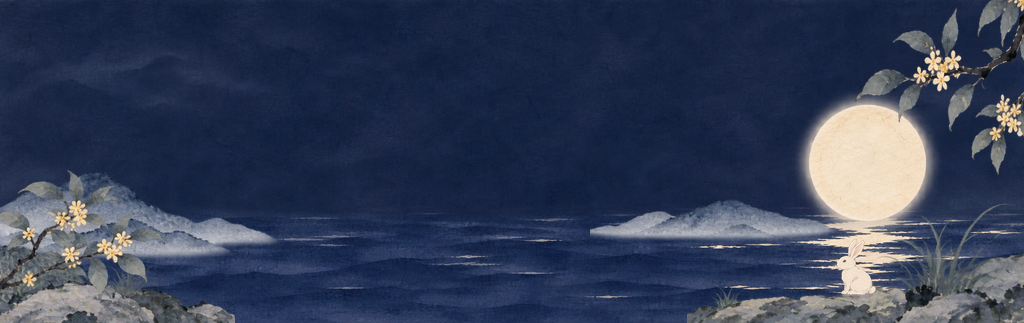
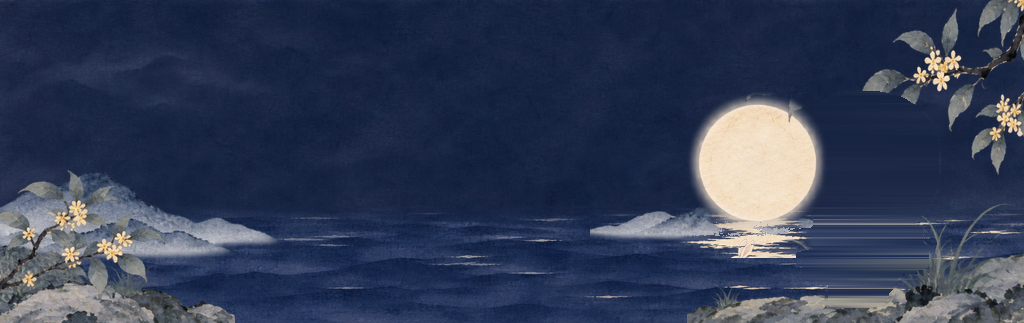
fix(covers): 动态封面主体收进窗（A 批 D-1～D-12）
iPhone 个人页 390x180 下可见帧窗 x[193.8,830.4]，审计 22 项里的主体裁切 12 项：

- D-1 七夕：双鹊整体左移 155 帧 px（小喜鹊 [658,798]，满幅右倾到 822）
- D-2 元旦：newyear-egg-burst.png 里两颗出屏星移进窗（150→230、950→790）
- D-3 复活节金蛋：整层左移 60 帧 px（→ [741,791]）
- D-4 复活节彩蛋：中心 380→412，满幅左倾左缘 365，出头像遮挡区
- D-5 元宵莲花灯：中心 y 288→279，底边 305 不再出窗底
- D-6 元宵近景光效：整层左收 100 帧 px（亮核 → [639,803]）
- D-7 中秋：月盘在图集 13 帧＋海报里左移 110 帧 px（图集手术：月盘＋
  倒影平移、空位横向插值填补、玉兔与桂花枝原样保留），玉兔图层代码里
  同移 110（相对位置不变）；满幅右倾月盘到 827、玉兔到 818
- D-8 中秋孔明灯：左灯 baseX 180→280
- D-9 亡灵节花瓣：落点重排（1 号 150→260、4 号 900→770）
- D-10 旧系统：BearyFestivalWallpaperView 加 isCoverMode（max 缩放居中
  裁切、去阅读遮罩，纵向锚点 0.578），个人页调用点开启，选择页预览不动
- D-11 韩国地面光晕：中心 1090→970
- D-12 韩国风筝挂钩：x 1002→980

每项均按审计同款方法复算（可见窗换算、alpha 框／连通域），见 NOTES。
已知残留：七夕双鹊翼尖／尾尖约 5–10 帧 px 纵向微裁（平移修不了）；
元宵近景光效极淡尾部少量残留；中秋旧月位有极淡填补痕（手机尺寸不可见）。

Changed region(s): [[0.6562, 0.2786, 0.9375, 0.9598]]

diff --git a/ios/App/App/BearyProfileCoverView.swift b/ios/App/App/BearyProfileCoverView.swift
@@ -517,12 +517,18 @@ public final class ProfileCoverView: UIView {
                    center: CGPoint(x: padded.midX + structureX, y: padded.midY),
                    width: padded.width, height: padded.height, angle: 0, alpha: egg * (0.35 + 0.45 * motion), layered: true)
         }
-        // 两只喜鹊中心（帧坐标）：大喜鹊 (545.5, 263)，小喜鹊 (883, 57.5)；
-        // 桥心取两者中点 (714.25, 160.25)；靠拢走 55% 的路、留翼尖相触的距离，
+        // 两只喜鹊中心（帧坐标）：大喜鹊 (390.5, 263)，小喜鹊 (728, 57.5)；
+        // 桥心取两者中点 (559.25, 160.25)；靠拢走 55% 的路、留翼尖相触的距离，
         // 不叠在一起；再各加一条 sin 弧线（约 10px），轨迹是短弧线、像滑翔。
-        let meet = CGPoint(x: 714.25, y: 160.25)
-        let bigCenter = CGPoint(x: 545.5, y: 263)
-        let smallCenter = CGPoint(x: 883, y: 57.5)
+        // D-1：iPhone 个人页可见帧窗右缘 830，小喜鹊身体层帧 x[813,953] 静止
+        // 仅 12% 可见——双鹊整体左移 155 帧 px（身体层 → [658,798]，满幅右倾
+        // 到 822，仍在窗内；大喜鹊 → [331,457]；相会点跟着走，仍在金带上）。
+        // 纵向不移：双鹊纵跨 y[10,318] 比窗高 293 只多约 15，仅翼尖／尾尖
+        // 约 5–10 帧 px 微裁，平移修不了，留作已知残留。
+        let magpieShiftX: CGFloat = -155
+        let meet = CGPoint(x: 714.25 + magpieShiftX, y: 160.25)
+        let bigCenter = CGPoint(x: 545.5 + magpieShiftX, y: 263)
+        let smallCenter = CGPoint(x: 883 + magpieShiftX, y: 57.5)
         let arc = sin(.pi * converge) * 10
         let bigFrame = CGPoint(
             x: converge * 0.55 * (meet.x - bigCenter.x) + arc * 0.520,
@@ -553,7 +559,7 @@ public final class ProfileCoverView: UIView {
         }
         // 未触发时整张喜鹊：PNG 左上角对帧坐标 (483, 7)、473×313。
         bitmap("qixi-magpie", in: ctx,
-               center: CGPoint(x: -32 + (483 + 473 / 2) * scaleX + subjectX,
+               center: CGPoint(x: -32 + (483 + 473 / 2) * scaleX + subjectX + magpieShiftX * scaleX,
                                y: -12 + (7 + 313 / 2) * scaleY + vertical),
                width: 473 * scaleX, height: 313 * scaleY, angle: 0, alpha: 1 - split, layered: true)
     }
@@ -587,8 +593,9 @@ public final class ProfileCoverView: UIView {
     /// 三层视差已 baked 进帧——远层帧移 1(f−6) px（±6）、中层 2(f−6) px
     /// （±12）、近层 3(f−6) px（±18），窗框在底图里全程静止。
     /// 彩蛋一张是与第 7 帧对齐的整帧透明层：7 颗金色四角星（(843,49) 在右上
-    /// 大金烟花里，另 6 颗 (150,62)、(320,108)、(430,48)、(600,38)、
-    /// (250,212)、(950,192) 布满天空），跟远层走。
+    /// 大金烟花里，另 6 颗 (230,62)、(320,108)、(430,48)、(600,38)、
+    /// (250,212)、(790,192) 布满天空），跟远层走。D-2：(150,62) 与 (950,192)
+    /// 两颗出屏，已在 newyear-egg-burst.png 里分别移到 (230,62) 与 (790,192)。
     /// 坐标全按帧坐标（1024×323）算、再乘 padded 的拉伸比换到画布坐标，与 canvasRectToView 同一套映射。
     /// App 侧动态层跟图集同速：彩蛋跟远层，帧移 1(f−6) px 即 6*depth
     /// （depth ∈ [−1, 1]，f = (depth+1)*6）。
@@ -611,8 +618,9 @@ public final class ProfileCoverView: UIView {
     /// 三层位移（第 1→13 帧全程）：远 24／中 36／前景 60；帧 f=(depth+1)*6，
     /// 中层帧内位移 3(f−6) px 即 18*depth——彩蛋与金蛋都跟中层走（±18px）。
     /// 动态彩蛋（easter-painted-egg.png，512×560）：画在开阔草地上、兔子左侧，
-    /// 中心帧坐标 (380, 269)、宽 90，底边贴草地（y≈318）；交付里只说“落在草地上”、
-    /// 没给位置，这个点是我定的，想挪直接改这两个数。金蛋：倾斜保持 0.45 秒后
+    /// 中心帧坐标 (412, 269)、宽 90，底边贴草地（y≈318）；交付里只说“落在草地上”、
+    /// 没给位置，这个点是我定的，想挪直接改这两个数。D-4：原中心 (380, 269) 左下角
+    /// 碰头像遮挡区，右移 32 帧 px。金蛋：倾斜保持 0.45 秒后
     /// 随 egg 淡入（触发走共享 step 逻辑，与圣诞同款；每次进页 restartVisit 可再触发）。
     private func drawEaster(_ ctx: CGContext, depth: CGFloat, vertical: CGFloat, padded: CGRect) {
         let scaleX = padded.width / 1024
@@ -621,16 +629,21 @@ public final class ProfileCoverView: UIView {
         // 即 18*depth）；彩蛋与金蛋都按它平移才贴得住草地。
         let middleX = 18 * depth * scaleX
         // 金蛋：兔子右侧草丛，整帧透明层与第 7 帧对齐（金蛋 bbox x801–851、y240–281）。
+        // D-3：iPhone 可见帧窗右缘 830，金蛋静止仅 58% 可见——整层左移 60 帧 px
+        // （→ [741,791]，满幅倾斜也在窗内；图层除金蛋外全透明，整层平移无影响）。
         if egg > 0.001 {
             bitmap("easter-golden-egg", in: ctx,
-                   center: CGPoint(x: padded.midX + middleX, y: padded.midY),
+                   center: CGPoint(x: padded.midX + middleX - 60 * scaleX, y: padded.midY),
                    width: padded.width, height: padded.height, angle: 0, alpha: egg, layered: true)
         }
-        // 动态彩蛋：PNG 512×560，宽 90、高 90*560/512；中心帧坐标 (380, 269)。
+        // 动态彩蛋：PNG 512×560，宽 90、高 90*560/512；中心帧坐标 (412, 269)。
+        // D-4：原中心 (380, 269) 左下角碰头像遮挡区（满幅左倾时左缘到帧 344，
+        // 头像右缘 357）——中心右移 32 帧 px，满幅左倾左缘到约 365，刚出头像区；
+        // 右缘仍远离兔子（兔子左缘约 600）。
         let eggWidth: CGFloat = 90
         let eggHeight = eggWidth * 560 / 512
         bitmap("easter-painted-egg", in: ctx,
-               center: CGPoint(x: -32 + 380 * scaleX + middleX,
+               center: CGPoint(x: -32 + 412 * scaleX + middleX,
                                y: -12 + 269 * scaleY + vertical),
                width: eggWidth, height: eggHeight, angle: 0, alpha: 1, layered: true)
     }
@@ -642,8 +655,9 @@ public final class ProfileCoverView: UIView {
     /// (T/2)*depth——花灯浮在水面跟中层走（±18px），光效近景片跟近景（±24px）、
     /// 远景片跟远景（±12px）。中景片与前景片为空：光晕够不着桥面水纹与梅花枝，
     /// 拆分见 festival-depth-covers/chatgpt-step2/split-lights.py，两片重组与原图逐像素一致。
-    /// 莲花灯（flower-lantern.png，520×484）：画在桥右水面开阔处，中心帧坐标 (430, 288)、
+    /// 莲花灯（flower-lantern.png，520×484）：画在桥右水面开阔处，中心帧坐标 (430, 279)、
     /// 宽 70，底边贴水面（y≈320）；交付里没给位置，这个点是我定的，想挪直接改这两个数。
+    /// D-5：原中心 y 288 时底边超出可见窗底，上提 9 帧 px。
     /// 预览 v2 里花灯会持续漂移＋浮沉＋倾斜＋光晕脉动，本接线没做：灯锚在水面，
     /// 只跟倾斜轻摆（角度 0.03*travel）＋水面一圈暖光晕；持续漂移要时间驱动，
     /// 现在的 ProfileCoverView 没有时间相位，先不做。远景虚化＋梅花清晰豁免也是
@@ -662,15 +676,20 @@ public final class ProfileCoverView: UIView {
             bitmap("lantern-lights-far", in: ctx,
                    center: CGPoint(x: padded.midX + farX, y: padded.midY),
                    width: padded.width, height: padded.height, angle: 0, alpha: egg, layered: true)
+            // D-6：近景光效层亮核帧 x[739,903]，可见窗右缘 830——整层左收 100 帧 px
+            // （亮核 → [639,803]，满幅右倾到 827，仍在窗内；光晕是柔和 wash，
+            // 相对右楼位置略移，亮核仍落在楼体上；极淡尾部少量残留，见 NOTES）。
             bitmap("lantern-lights-near", in: ctx,
-                   center: CGPoint(x: padded.midX + nearX, y: padded.midY),
+                   center: CGPoint(x: padded.midX + nearX - 100 * scaleX, y: padded.midY),
                    width: padded.width, height: padded.height, angle: 0, alpha: egg, layered: true)
         }
-        // 莲花灯：PNG 520×484，宽 70、高 70*484/520；中心帧坐标 (430, 288)。
+        // 莲花灯：PNG 520×484，宽 70、高 70*484/520；中心帧坐标 (430, 279)。
+        // D-5：原中心 y 288 时底边帧 y≈314，超出可见窗底 308——上提 9 帧 px，
+        // 底边到约 305，满幅竖直倾斜也在窗内。
         let lanternWidth: CGFloat = 70
         let lanternHeight = lanternWidth * 484 / 520
         let lanternCenter = CGPoint(x: -32 + 430 * scaleX + middleX,
-                                    y: -12 + 288 * scaleY + vertical)
+                                    y: -12 + 279 * scaleY + vertical)
         // 水面暖光晕（灯下倒影一圈暖色，随灯走）。
         glow(ctx, center: CGPoint(x: lanternCenter.x, y: lanternCenter.y + lanternHeight * 0.42),
              rx: 52, ry: 8, color: UIColor(red: 1, green: 0.69, blue: 0.34, alpha: 1), alpha: 0.30)
@@ -686,10 +705,13 @@ public final class ProfileCoverView: UIView {
     /// 彩蛋（jade-rabbit-egg.png，1024×323）：月亮里玉兔捣药金色剪影
     /// （alpha 框 x888–916、y138–170，正落在月盘里），倾斜保持 0.45 秒后
     /// 随 egg 淡入（触发走共享 step 逻辑，与圣诞同款；每次进页 restartVisit 可再触发）。
+    /// D-7：月盘（图集第 7 帧 x801–925）与玉兔静止只剩约 18%／完全出屏——
+    /// 月盘在图集与海报里左移 110 帧 px，玉兔代码里同移 110，相对位置不变。
     /// 孔明灯（sky-lantern.png，120×110）：三盏错开相位循环上飘（周期约
     /// 14 秒，底部淡入、顶部淡出）；上飘由 App 实现——ProfileCoverView
     /// 用 step() 的 dt 累一个 lanternPhase（进页／停播时复位），灯的位置
-    /// （x 180／480／760）与大小（宽 56）是我定的，想挪直接改这两个数。
+    /// （x 280／480／760）与大小（宽 56）是我定的，想挪直接改这两个数。
+    /// D-8：原左灯 x 180 静止基本全在屏外，左移到 280。
     private func drawMidautumn(_ ctx: CGContext, depth: CGFloat, travel: CGFloat, vertical: CGFloat, padded: CGRect) {
         let scaleX = padded.width / 1024
         let scaleY = padded.height / 323
@@ -697,17 +719,22 @@ public final class ProfileCoverView: UIView {
         // 彩蛋与孔明灯都按它平移才贴得住月亮／天空。
         let farX = 12 * depth * scaleX
         // 彩蛋：月亮里玉兔捣药金色剪影，整帧透明层与第 7 帧对齐。
+        // D-7：玉兔与月盘一起左移 110 帧 px（月盘在图集里同步左移，见
+        // midautumn-depth.png／midautumn-poster.png；玉兔 → [778,806]，
+        // 满幅右倾到 818，仍在窗内；与月盘相对位置不变）。
         if egg > 0.001 {
             bitmap("jade-rabbit-egg", in: ctx,
-                   center: CGPoint(x: padded.midX + farX, y: padded.midY),
+                   center: CGPoint(x: padded.midX + farX - 110 * scaleX, y: padded.midY),
                    width: padded.width, height: padded.height, angle: 0, alpha: egg, layered: true)
         }
         // 孔明灯：三盏错开相位循环上飘（周期 14 秒，从 y≈290 升到 y≈30）。
+        // D-8：左灯 baseX 180 时静止基本全在屏外——左灯 180 → 280（中、右两盏不动）；
+        // 左灯内容宽约 34.5 canvas pt，满幅左倾左缘到约 282，仍在窗内。
         let lanternWidth: CGFloat = 56
         let lanternHeight = lanternWidth * 110 / 120
         let period: CGFloat = 14
         let rise: CGFloat = 260
-        for (index, baseX) in [180, 480, 760].enumerated() {
+        for (index, baseX) in [280, 480, 760].enumerated() {
             let phase = (lanternPhase / period + CGFloat(index) / 3).truncatingRemainder(dividingBy: 1)
             let fade = min(phase / 0.15, (1 - phase) / 0.15, 1)
             guard fade > 0 else { continue }
@@ -730,8 +757,8 @@ public final class ProfileCoverView: UIView {
     /// 这两个数。
     /// 花瓣（marigold-petal-1～4.png，从一张四瓣图裁开，各瓣原生比不同）：
     /// 四片错开相位循环飘落（周期约 12 秒，从 y≈-30 落到 y≈350，首尾淡入淡出），
-    /// 横向轻摆 ±20px、微转；落点（x 150／420／680／900）与大小（宽 46）是我
-    /// 定的，想挪直接改这两个数。
+    /// 横向轻摆 ±20px、微转；落点（x 260／420／680／770）与大小（宽 46）是我
+    /// 定的，想挪直接改这两个数。D-9：原 1 号 150、4 号 900 出屏，重排进窗。
     private func drawMuertos(_ ctx: CGContext, depth: CGFloat, travel: CGFloat, vertical: CGFloat, padded: CGRect) {
         let scaleX = padded.width / 1024
         let scaleY = padded.height / 323
@@ -749,11 +776,14 @@ public final class ProfileCoverView: UIView {
         }
         // 花瓣：四片错开相位循环飘落（周期 12 秒，从 y≈-30 落到 y≈350）。
         let petalWidth: CGFloat = 46
+        // D-9：1 号瓣静止仅 26% 可见、4 号瓣永远 0%——落点重排进窗（1 号 150 → 260，
+        // 4 号 900 → 770；2、3 号不动）。最坏摆动下 1 号左缘到 229、4 号右缘到 1008，
+        // 均在可见窗 x[213,1017] 内。
         let petalSizes: [(key: String, aspect: CGFloat, baseX: CGFloat)] = [
-            ("marigold-petal-1", 426 / 490, 150),
+            ("marigold-petal-1", 426 / 490, 260),
             ("marigold-petal-2", 417 / 683, 420),
             ("marigold-petal-3", 229 / 438, 680),
-            ("marigold-petal-4", 373 / 550, 900),
+            ("marigold-petal-4", 373 / 550, 770),
         ]
         let period: CGFloat = 12
         let fall: CGFloat = 380
@@ -829,7 +859,9 @@ public final class ProfileCoverView: UIView {
             }
 
         case .korea:
-            let hook = CGPoint(x: 1002 + nearX, y: 318 + vertical)
+            // D-12：挂钩满幅右倾到 canvas 1022，超出可见窗右缘 1017——挂钩
+            // 1002 → 980（满幅右倾到 1000，仍在窗内；风筝组件整体跟挂钩走）。
+            let hook = CGPoint(x: 980 + nearX, y: 318 + vertical)
             let radius: CGFloat = 276, theta = -1.10 + 0.039 * travel, angle = 0.095 + 0.052 * travel
             let end = CGPoint(x: hook.x + radius * sin(theta), y: hook.y - radius * cos(theta))
             let height: CGFloat = 106
@@ -837,7 +869,9 @@ public final class ProfileCoverView: UIView {
             let center = CGPoint(x: end.x + sin(angle) * tie, y: end.y - cos(angle) * tie)
             let cord = UIColor(red: 0.35, green: 0.24, blue: 0.22, alpha: 1)
             stroke(ctx, [hook, end], color: cord, width: 1.2, alpha: 0.57)
-            glow(ctx, center: CGPoint(x: 1090 + nearX + 24 * x, y: 357 + 5 * y),
+            // D-11：地面光晕中心 1090 时静止仅约 12% 可见——左移 120 canvas pt
+            // （→ 970；亮核常在窗内，满幅右倾中心到 1014，仍在窗内）。
+            glow(ctx, center: CGPoint(x: 970 + nearX + 24 * x, y: 357 + 5 * y),
                  rx: 97, ry: 16, color: gold, alpha: 0.15 + 0.27 * strength)
             bitmap("kite", in: ctx, center: center, width: width, height: height, angle: angle) {
                 guard self.egg > 0 else { return }

diff --git a/ios/App/App/BearyFestivalWallpaperView.swift b/ios/App/App/BearyFestivalWallpaperView.swift
@@ -2,6 +2,8 @@ import CoreMotion
 import UIKit
 
 /// Decorative background for a diary card. Put the card's text above this view.
+/// Personal-profile cover: set `isCoverMode = true` for a full-bleed centered crop
+/// without the reading mask (the card layout's left text zone is empty there).
 @MainActor
 public final class BearyFestivalWallpaperView: UIView {
     public enum Theme: String { case halloween, spring }
@@ -50,6 +52,17 @@ public final class BearyFestivalWallpaperView: UIView {
         didSet { updateSubscription() }
     }
 
+    /// 封面模式（个人页用）：max 缩放居中裁切、去掉阅读遮罩。默认 false（日记卡
+    /// 保持 min 缩放右贴边＋左侧文字区遮罩）。D-10：min 缩放下场景只占右侧 270pt，
+    /// 左侧三分之一是纯底色，个人页没有文字却留了文字区。
+    public var isCoverMode = false {
+        didSet {
+            guard isCoverMode != oldValue else { return }
+            decor.mask = isCoverMode ? nil : readingMask
+            setNeedsLayout()
+        }
+    }
+
     public override var isHidden: Bool {
         didSet { updateSubscription() }
     }
@@ -58,6 +71,8 @@ public final class BearyFestivalWallpaperView: UIView {
     private let designSize: CGSize
     private let period: Double
     private let scene = CALayer()
+    private let decor = CALayer()
+    private var readingMask: CAGradientLayer?
     private let nodes: [Node]
     private var neutral: CGPoint?
     private var screenOrientation: UIInterfaceOrientation?
@@ -127,7 +142,6 @@ public final class BearyFestivalWallpaperView: UIView {
         scene.anchorPoint = CGPoint(x: 1, y: 0.5)
         scene.masksToBounds = true
         layer.addSublayer(scene)
-        let decor = CALayer()
         decor.frame = scene.bounds
         let readingMask = CAGradientLayer()
         readingMask.frame = decor.bounds
@@ -138,6 +152,7 @@ public final class BearyFestivalWallpaperView: UIView {
         readingMask.locations = [0, NSNumber(value: manifest.readingWidth),
                                  NSNumber(value: manifest.readingWidth + 36 / manifest.size[0]), 1]
         decor.mask = readingMask
+        self.readingMask = readingMask
         for node in nodes {
             if node.id == "background" { scene.addSublayer(node.layer) }
             else { decor.addSublayer(node.layer) }
@@ -151,10 +166,25 @@ public final class BearyFestivalWallpaperView: UIView {
 
     public override func layoutSubviews() {
         super.layoutSubviews()
-        let scale = min(bounds.width / designSize.width, bounds.height / designSize.height)
+        // 封面模式：max 缩放、纵向锚点 0.578（南瓜／叶子／台阶全进窗；墙顶与屋顶
+        // 少量裁切），与 ProfileCoverView 同款居中裁切构图。卡片模式：min 缩放、
+        // 右贴边（给左侧文字留区）。
+        let scale: CGFloat
+        let anchor: CGPoint
+        let position: CGPoint
+        if isCoverMode {
+            scale = max(bounds.width / designSize.width, bounds.height / designSize.height)
+            anchor = CGPoint(x: 0.5, y: 0.578)
+            position = CGPoint(x: bounds.midX, y: bounds.midY)
+        } else {
+            scale = min(bounds.width / designSize.width, bounds.height / designSize.height)
+            anchor = CGPoint(x: 1, y: 0.5)
+            position = CGPoint(x: bounds.maxX, y: bounds.midY)
+        }
         CATransaction.begin()
         CATransaction.setDisableActions(true)
-        scene.position = CGPoint(x: bounds.maxX, y: bounds.midY)
+        scene.anchorPoint = anchor
+        scene.position = position
         scene.setAffineTransform(CGAffineTransform(scaleX: scale, y: scale))
         CATransaction.commit()
     }

diff --git a/ios/App/App/BearyProfileViewController.swift b/ios/App/App/BearyProfileViewController.swift
@@ -10270,6 +10270,9 @@ let viewer = BearyEntryImageViewerViewController(imageKeys: keys, liveVideos: en
         if festivalWallpaperView == nil || festivalTheme != effective {
             do {
                 let wallpaperView = try BearyFestivalWallpaperView(theme: wallpaperTheme)
+                // D-10：个人页是满幅封面，没有日记卡左侧文字区——用居中裁切＋去遮罩，
+                // 场景占满整块封面；选择页预览（depth-bg-vc-main）保持默认卡片模式。
+                wallpaperView.isCoverMode = true
                 wallpaperView.translatesAutoresizingMaskIntoConstraints = false
                 wallpaperView.accessibilityElementsHidden = true
                 festivalWallpaperView?.removeFromSuperview()
